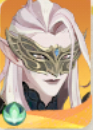
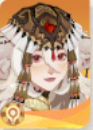
Fix portrait templates and add analysis logging
3-0c: Correct initial_formation_20260928 templates after device
verification (0.1.15): galahad and tudor were swapped. Extracted
galahad from card3 slot1 and tudor from card3 slot2 using reference
coordinates. Visual verification: all 8 portraits now show correct
heroes (cassadia, kazim, smokey_mirky, endure, sarie, isabella,
galahad, tudor).

3-0d: Add adb logging for capture and analysis results. Output goes
to logcat tag "AFKTracker" so PC can monitor via:
  adb logcat -s AFKTracker

Logs include:
- Capture diagnostics (frame count, ImageReader status, etc)
- Initial formation: artifact per card, hero per slot with status
  and confidence, missing reasons
- Shop analysis: items per slot, recommendations with full reasons
- Other screens: overlay messages

Duplicate suppression changed from full message to (name, status,
action) only—avoids log spam when confidence % changes.

Bump versionCode to 22, versionName to 0.1.16-logging-20260928.

diff --git a/app/src/main/java/com/asp0902/mobilegameassistant/tracking/TrackingViewModel.kt b/app/src/main/java/com/asp0902/mobilegameassistant/tracking/TrackingViewModel.kt
@@ -1,5 +1,6 @@
 package com.asp0902.mobilegameassistant.tracking
 
+import android.util.Log
 import androidx.lifecycle.ViewModel
 import androidx.lifecycle.viewModelScope
 import com.asp0902.mobilegameassistant.analysis.HonorDuelShopAnalysis
@@ -70,6 +71,7 @@ class TrackingViewModel @Inject constructor(
     private var lastArtisansSelectionSignature: String? = null
     private var artisansStableFrames = 0
     private val analysisSequence = AtomicLong(0)
+    private var lastLogMessage: String? = null
 
     init {
         viewModelScope.launch {
@@ -98,6 +100,7 @@ class TrackingViewModel @Inject constructor(
                         resetArtisansStability()
                         mutableAnalysis.value = ShopAnalysisUiState.HonorDuelStart
                         overlayController.show("명예의 결투 시작 화면\n지금 시작을 누르면 다음 화면을 분석합니다.")
+                        logAnalysis("화면: 명예의 결투 시작", captureSession.diagnostic.value)
                         return@onSuccess
                     }
                     if (result.screenType == ScreenType.HONOR_DUEL_INITIAL_FORMATION_SELECTION) {
@@ -122,6 +125,7 @@ class TrackingViewModel @Inject constructor(
                             offers = offers,
                             recommendations = formationRecommendations,
                         )
+                        logInitialFormation(offers, formationRecommendations)
                         val overlayText = buildString {
                             append("명예의 결투 초기 진형 선택 화면")
                             append("\n초기 제공 영웅: 전원 에픽 (사용자 확인)")
@@ -150,6 +154,7 @@ class TrackingViewModel @Inject constructor(
                             ?: "저장된 보스 자료를 읽지 못했습니다. 추천을 보류합니다."
                         mutableAnalysis.value = ShopAnalysisUiState.LearnedBoss(message)
                         overlayController.show(message)
+                        logAnalysis("화면: 보스\n$message", captureSession.diagnostic.value)
                         return@onSuccess
                     }
                     LabyrinthChoiceAdvisor.analyze(ocrText)?.let { advice ->
@@ -157,6 +162,7 @@ class TrackingViewModel @Inject constructor(
                         resetArtisansStability()
                         mutableAnalysis.value = ShopAnalysisUiState.Labyrinth(advice.message)
                         overlayController.show("이계의 미궁\n${advice.message}")
+                        logAnalysis("화면: 이계의 미궁\n${advice.message}", captureSession.diagnostic.value)
                         return@onSuccess
                     }
                     val artisans = ArtisansPathAdvisor.analyze(
@@ -176,6 +182,7 @@ class TrackingViewModel @Inject constructor(
                         resetArtisansStability()
                         mutableAnalysis.value = ShopAnalysisUiState.UnsupportedScreen(result.screenType, result.screenReasons)
                         updateOverlay(null, emptyList(), emptyList())
+                        logAnalysis("화면: ${result.screenType}\n${result.screenReasons.joinToString(", ")}", captureSession.diagnostic.value)
                         return@onSuccess
                     }
                     resetArtisansStability()
@@ -198,6 +205,7 @@ class TrackingViewModel @Inject constructor(
                     val shopRecommendations = ruleEngine.recommend(tracked.analysis)
                     val runRecommendations = ruleEngine.recommendRunActions(tracked.analysis, tracked.progress.status)
                     mutableAnalysis.value = ShopAnalysisUiState.Result(tracked.analysis, shopRecommendations, runRecommendations, snapshotId, tracked.headerSources, runStatus = tracked.progress.status)
+                    logShopAnalysis(tracked.analysis, shopRecommendations, runRecommendations)
                     updateOverlay(null, shopRecommendations, runRecommendations)
                     viewModelScope.launch(Dispatchers.IO) {
                         runRepository.save(tracked)
@@ -206,7 +214,9 @@ class TrackingViewModel @Inject constructor(
                 }.onFailure {
                     if (it is CancellationException || analysisId != analysisSequence.get()) return@onFailure
                     overlayController.clearTargets()
-                    mutableAnalysis.value = ShopAnalysisUiState.Error("OCR 분석 실패: ${it.message ?: "알 수 없음"}")
+                    val errorMsg = "OCR 분석 실패: ${it.message ?: "알 수 없음"}"
+                    mutableAnalysis.value = ShopAnalysisUiState.Error(errorMsg)
+                    logAnalysis(errorMsg, captureSession.diagnostic.value)
                 }
             }
         }
@@ -423,6 +433,102 @@ class TrackingViewModel @Inject constructor(
                 lastRunState?.progress?.status ?: RunStatus.ACTIVE,
             )
             updateOverlay(null, shopRecommendations, runRecommendations)
+        }
+    }
+
+    private fun logAnalysis(message: String, diagnostic: String?) {
+        val fullMsg = buildString {
+            if (diagnostic != null) append("진단: $diagnostic\n")
+            append(message)
+        }
+        if (fullMsg != lastLogMessage) {
+            Log.i("AFKTracker", fullMsg)
+            lastLogMessage = fullMsg
+        }
+    }
+
+    private fun logInitialFormation(
+        offers: List<InitialFormationOffer>,
+        recommendations: List<InitialFormationRecommendation>,
+    ) {
+        val msg = buildString {
+            append("화면: 명예의 결투 초기 진형 선택\n")
+            append("진단: ${captureSession.diagnostic.value ?: "없음"}\n")
+
+            append("아티팩트:\n")
+            offers.forEach { offer ->
+                append("  카드${offer.slotIndex + 1}: ${offer.artifactName ?: "불명"} (${offer.artifactSource})\n")
+            }
+
+            append("영웅 인식:\n")
+            offers.forEach { offer ->
+                offer.heroSlots.forEachIndexed { slot, hero ->
+                    val status = when (hero.status) {
+                        com.asp0902.mobilegameassistant.analysis.HeroRecognitionStatus.CONFIRMED -> "확정"
+                        com.asp0902.mobilegameassistant.analysis.HeroRecognitionStatus.NEEDS_CONFIRMATION -> "미확인"
+                        com.asp0902.mobilegameassistant.analysis.HeroRecognitionStatus.UNKNOWN -> "불명"
+                    }
+                    val conf = if (hero.confidence > 0f) " ${(hero.confidence * 100).toInt()}%" else ""
+                    val reasonStr = if (offer.reasons.isNotEmpty()) " (${offer.reasons.joinToString(", ")})" else ""
+                    append("  카드${offer.slotIndex + 1}-${slot}: ${hero.heroName ?: "불명"} [$status$conf]$reasonStr\n")
+                }
+            }
+
+            append("추천:\n")
+            recommendations.forEach { rec ->
+                append("  카드${rec.slotIndex + 1}: ${rec.action} (점수: ${rec.score ?: "없음"})\n")
+                append("    사유: ${rec.reason}\n")
+            }
+        }
+        val logKey = buildString {
+            append(offers.map { it.artifactName }.joinToString("|"))
+            append("|")
+            append(offers.flatMap { it.heroSlots }.map { "${it.heroName}:${it.status}" }.joinToString("|"))
+            append("|")
+            append(recommendations.map { "${it.slotIndex}:${it.action}" }.joinToString("|"))
+        }
+        if (logKey != lastLogMessage) {
+            Log.i("AFKTracker", msg)
+            lastLogMessage = logKey
+        }
+    }
+
+    private fun logShopAnalysis(
+        analysis: HonorDuelShopAnalysis,
+        shopRecs: List<ShopRecommendation>,
+        runRecs: List<RunRecommendation>,
+    ) {
+        val msg = buildString {
+            append("화면: 명예의 결투 상점\n")
+            append("진단: ${captureSession.diagnostic.value ?: "없음"}\n")
+            append("아이템 ${analysis.shopItems.size}개:\n")
+            analysis.shopItems.forEach { item ->
+                append("  슬롯${item.slotIndex}: ${item.heroName ?: item.heroId ?: "불명"}")
+                if (item.price != null) append(" / ${item.price}골드")
+                append("\n")
+            }
+            if (shopRecs.isNotEmpty()) {
+                append("추천:\n")
+                shopRecs.forEach { rec ->
+                    append("  슬롯${rec.slotIndex}: ${rec.action}\n    사유: ${rec.reason}\n")
+                }
+            }
+            if (runRecs.isNotEmpty()) {
+                append("진행 추천: ")
+                runRecs.forEach { rec ->
+                    append("${rec.action} ")
+                }
+                append("\n")
+            }
+        }
+        val logKey = buildString {
+            append(analysis.shopItems.map { "${it.slotIndex}:${it.heroName ?: it.heroId}" }.joinToString("|"))
+            append("|")
+            append(shopRecs.map { "${it.slotIndex}:${it.action}" }.joinToString("|"))
+        }
+        if (logKey != lastLogMessage) {
+            Log.i("AFKTracker", msg)
+            lastLogMessage = logKey
         }
     }
 }
